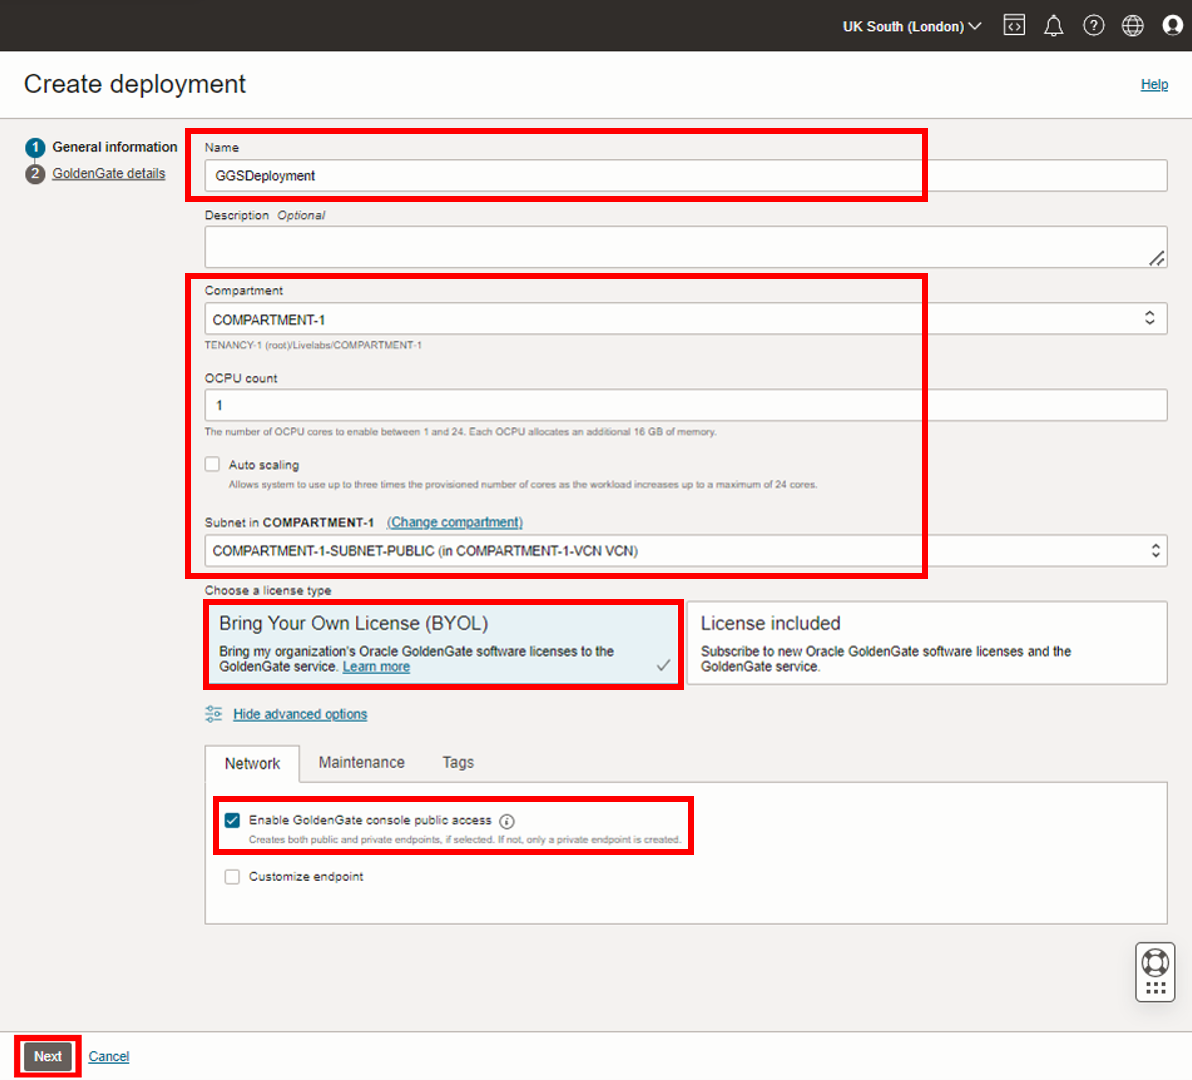
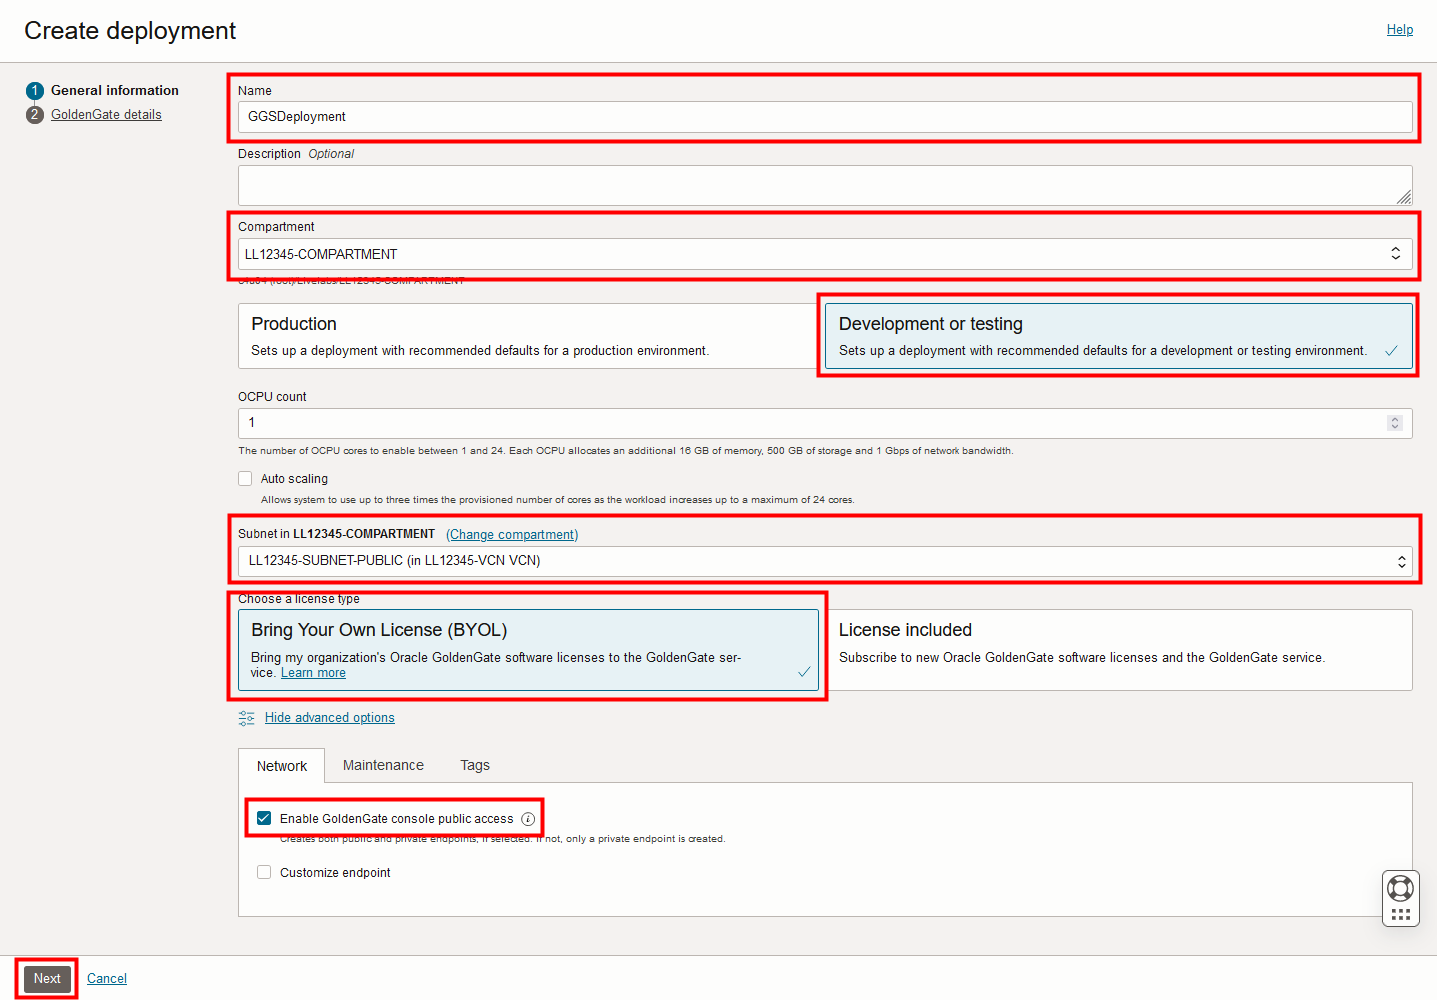
Workshop 2920/HOL 16
Updates to lab instructions due to recent UI updates.

Changed region(s): [[0.0, 0.0, 1.0, 0.899], [0.0, 0.961, 0.1242, 1.0], [0.9312, 0.868, 0.9933, 0.93]]

diff --git a/oci-ggs/create/create-gb.md b/oci-ggs/create/create-gb.md
@@ -37,7 +37,7 @@ In this lab, you will:
 
 3.  You may need to select a compartment. Under List Scope, from the Compartment dropdown, expand the root compartment, and then select the compartment associated with your username. For example, if your LiveLab username is LL1234-user, expand root, expand LiveLabs, and then select the compartment **LL1234-COMPARTMENT**.
 
-    > **Tip:** You can find your User name in the Workshop Details section.
+    > **Tip:** You can find your Username in the Workshop instruction's **View Login Info**.
 
 4.  On the Deployments page, click **Create deployment**.
 
@@ -47,7 +47,7 @@ In this lab, you will:
 
 6.  From the Compartment dropdown, select **&lt;USER&gt;-COMPARTMENT**.
 
-7.  For OCPU Count, enter **1**.
+7.  Select **Development or testing**. The OCPU count is autopopulated based on your selection.
 
 8.  For Subnet, select a subnet. If you're using the workshop environment, select **&lt;USER&gt;-SUBNET-PUBLIC**.
 
@@ -59,19 +59,21 @@ In this lab, you will:
 
 11. Click **Next**.
 
-12. For Select a technology dropdown, select **Oracle Database**.
+12. For Select a deployment type, select **Data replication**.
 
-13. For GoldenGate Instance Name, enter **ggsinstance**.
+13. For Select a technology dropdown, select **Oracle Database**.
 
-14. For Administrator Username, enter **oggadmin**.
+14. For GoldenGate Instance Name, enter **ggsinstance**.
 
-15. For Administrator Password, enter a password. Take note of this password.
+15. For Administrator Username, enter **oggadmin**.
 
-16. Click **Create**.
+16. For Administrator Password, enter a password. Take note of this password.
 
-    ![Completed GoldenGate details](https://oracle-livelabs.github.io/goldengate/ggs-common/create/images/01-16-create-deployment-summary.png " ")
+17. Click **Create**.
 
-You're brought to the Deployment Details page. It takes a few minutes for the deployment to be created. Its status will change from CREATING to ACTIVE when it is ready for  you to use.
+![Completed GoldenGate details](https://oracle-livelabs.github.io/goldengate/ggs-common/create/images/01-16-create-deployment-summary.png " ")
+
+You're brought to the Deployment Details page. It takes a few minutes for the deployment to be created. Its status changes from CREATING to ACTIVE when it's ready for you to use. You can continue with Tasks 2, 3, and 4 while you wait for the deployment creation to complete.
 
 ## Task 2: Create the source connection
 
@@ -121,29 +123,31 @@ Oracle Autonomous Databases come with a GGADMIN user that is locked by default. 
 
     ![Autonomous Transaction Processing page](https://oracle-livelabs.github.io/goldengate/ggs-common/create/images/03-02-sourceatp.png " ")
 
-3.  On the SourceATP Database Details page, click **Database actions**, and select **Database Users** from the dropdown.
+3.  On the SourceATP Database Details page, click **Database actions**, and then select **Database Users** from the dropdown. If the Database actions menu takes too long to load, you can click **Database actions** directly, and then select **Database users** from the Database actions page.
 
     ![SourceATP Database Details page](https://oracle-livelabs.github.io/goldengate/ggs-common/create/images/03-03-db-actions.png " ")
 
-    > **Note:** If you're prompted to log in to Database Actions, use the SourceATP admin credentials located in the Workshop Details.
+4.  Log in to Database actions as **admin**, using the ATP admin password from **View Login Info** in your Workshop instructions.
 
-4.  From the list of users, locate **GGADMIN**, and then click the ellipsis (three dots) icon and select **Edit**.
+    ![ATP Database actions log in](https://oracle-livelabs.github.io/goldengate/ggs-common/create/images/03-04-login.png " ")
+
+5.  From the list of users, locate **GGADMIN**, and then click the ellipsis (three dots) icon and select **Edit**.
 
     ![Database users](https://oracle-livelabs.github.io/goldengate/ggs-common/create/images/03-05-ggadmin.png " ")
 
-5.  In the Edit User panel, deselect **Account is Locked**, enter the password you gave the ggadmin user in the database registration steps above, and then click **Apply Changes**.
+6.  In the Edit User panel, deselect **Account is Locked**, enter the password you gave the ggadmin user in the database registration steps above, and then click **Apply Changes**.
 
     ![Edit user](https://oracle-livelabs.github.io/goldengate/ggs-common/create/images/03-06-ggadmin-edit-user.png " ")
 
     Note that the user icon changes from a padlock to a checkmark.
 
-6.  Open the Database actions navigation menu, and then under **Development**, select **SQL**.
+7.  Open the Database actions navigation menu, and then under **Development**, select **SQL**.
 
     ![Open navigation menu](https://oracle-livelabs.github.io/goldengate/ggs-common/create/images/03-07-sql.png " ")
 
-    > **Note:**  (Optional) Close the SQL Help dialog. 
+    > **Note:**  (Optional) Close the SQL Help dialogs. 
 
-7.  Enter the following into the Worksheet, and then click **Run Statement**.
+8.  Enter the following into the Worksheet, and then click **Run Statement**.
 
     ```
     <copy>ALTER PLUGGABLE DATABASE ADD SUPPLEMENTAL LOG DATA;</copy>
@@ -151,7 +155,7 @@ Oracle Autonomous Databases come with a GGADMIN user that is locked by default. 
 
     ![Script Output](https://oracle-livelabs.github.io/goldengate/ggs-common/create/images/03-08-sql-script-return.png " ")
 
-8.  Replace the supplemental logging script with the following to check support mode, and then click **Run Statement**:
+9.  Replace the supplemental logging script with the following to check support mode, and then click **Run Statement**:
 
     ```
     <copy>
@@ -167,7 +171,7 @@ Oracle Autonomous Databases come with a GGADMIN user that is locked by default. 
 
 ## Task 4: Create the target connection and unlock the GGADMIN user
 
-Now, follow the steps below to connect the target Autonomous Data Warehouse \(ADW\) instance.
+Follow the steps below to connect the target Autonomous Data Warehouse \(ADW\) instance.
 
 1.  Use the Oracle Cloud Console navigation menu to navigate back to **GoldenGate**.
 
@@ -195,7 +199,7 @@ Now, follow the steps below to connect the target Autonomous Data Warehouse \(AD
 
     The source and target databases appear in the list of Connections. The connection becomes Active after a few minutes.
 
-10. Repeat Task 3, steps 1-5, to unlock the GGADMIN user for the TargetADW database.
+10. Repeat Task 3, steps 1-6, to unlock the GGADMIN user for the TargetADW database.
 
 ## Task 5: Review the deployment details
 
@@ -239,5 +243,5 @@ You may now **proceed to the next lab.**
 ## Acknowledgements
 * **Author** - Jenny Chan, Consulting User Assistance Developer, Database User Assistance
 * **Contributors** -  Denis Gray, Database Product Management; Katherine Wardhana, User Assistance Developer
-* **Last Updated By/Date** - Katherine Wardhana, May 2023
+* **Last Updated By/Date** - Jenny Chan, September 2023
 

diff --git a/oci-ggs/create/create.md b/oci-ggs/create/create.md
@@ -40,7 +40,7 @@ In this lab, you will:
 
 5.  From the Compartment dropdown, select **&lt;USER&gt;-COMPARTMENT**.
 
-6.  For OCPU Count, enter **1**.
+6.  Select Development/testing. The OCPU count autopopulates based on this selection.
 
 7.  For Subnet, select a subnet. If you're using the workshop environment, select **&lt;USER&gt;-SUBNET-PUBLIC**.
 
@@ -52,19 +52,21 @@ In this lab, you will:
 
 10. Click **Next**.
 
-11. For Select a technology dropdown, select **Oracle Database**.
+12. For Select a deployment type, select **Data replication**.
 
-12. For GoldenGate Instance Name, enter **ggsinstance**.
+13. For Select a technology dropdown, select **Oracle Database**.
 
-13. For Administrator Username, enter **oggadmin**.
+14. For GoldenGate Instance Name, enter **ggsinstance**.
 
-14. For Administrator Password, enter a password. Take note of this password.
+15. For Administrator Username, enter **oggadmin**.
 
-15. Click **Create**.
+16. For Administrator Password, enter a password. Take note of this password.
 
-You're brought to the Deployment Details page. It takes a few minutes for the deployment to be created. Its status will change from CREATING to ACTIVE when it is ready for you to use.
+17. Click **Create**.
 
 ![Completed GoldenGate details](https://oracle-livelabs.github.io/goldengate/ggs-common/create/images/01-16-create-deployment-summary.png " ")
+
+You're brought to the Deployment Details page. It takes a few minutes for the deployment to be created. Its status changes from CREATING to ACTIVE when it's ready for you to use. You can continue with Tasks 2, 3, and 4 while you wait for the deployment creation to complete.
 
 ## Task 2: Create a connection to the source database
 
@@ -130,15 +132,7 @@ Oracle Autonomous Databases come with a GGADMIN user that is locked by default. 
 
     > **Note:**  (Optional) Close the SQL Help dialog. 
 
-7.  Enter the following into the Worksheet, and then click **Run Statement**.
-
-    ```
-    <copy>ALTER PLUGGABLE DATABASE ADD SUPPLEMENTAL LOG DATA;</copy>
-    ```
-
-    ![Script Output](https://oracle-livelabs.github.io/goldengate/ggs-common/create/images/03-08-sql-script-return.png " ")
-
-8.  Replace the supplemental logging script with the following to check support mode, and then click **Run Statement**:
+7.  Enter the following to check support mode, and then click **Run Statement**:
 
     ```
     <copy>
@@ -227,4 +221,4 @@ You may now **proceed to the next lab.**
 ## Acknowledgements
 * **Author** - Jenny Chan, Consulting User Assistance Developer, Database User Assistance
 * **Contributors** -  Denis Gray, Database Product Management; Katherine Wardhana, User Assistance Developer
-* **Last Updated By/Date** - Katherine Wardhana, May 2023
+* **Last Updated By/Date** - Jenny Chan, September 2023
